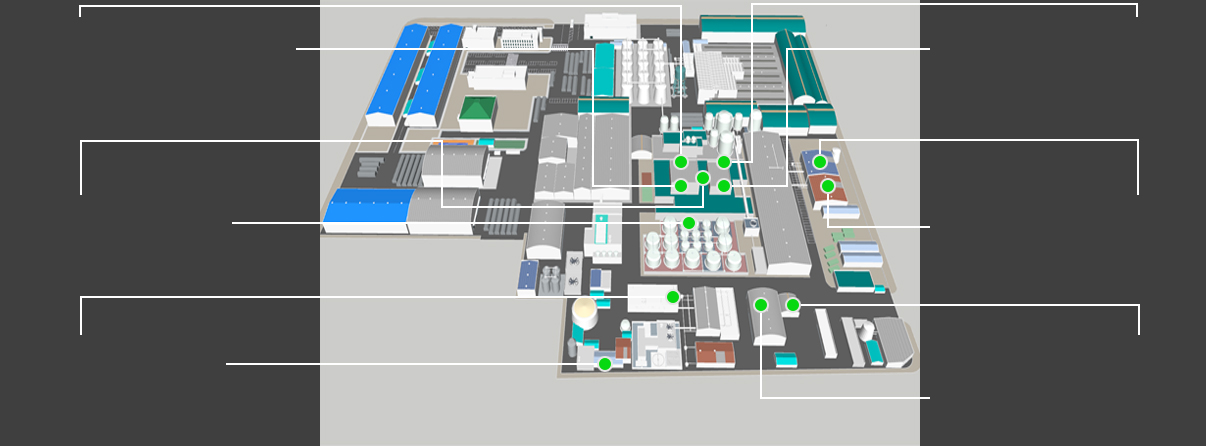
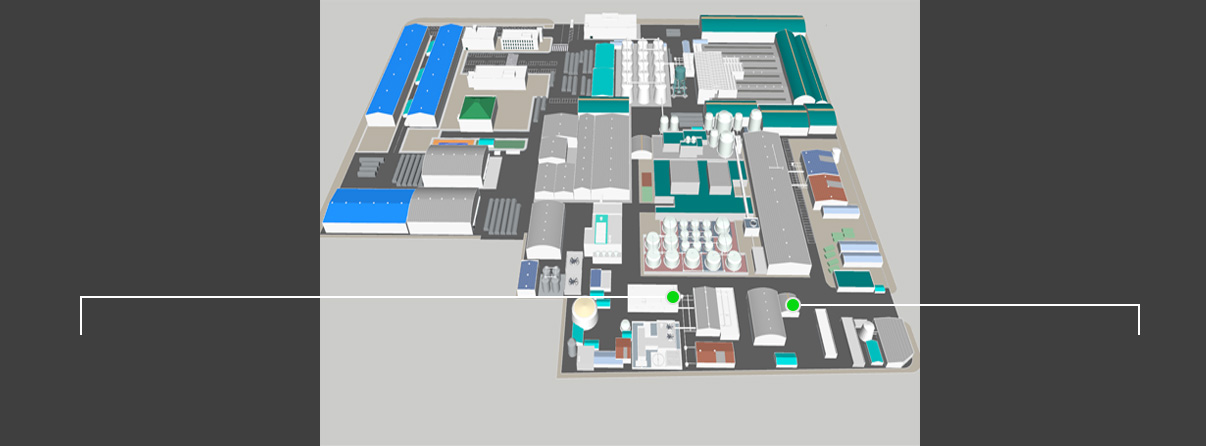
view map부분 수정

diff --git a/src/views/main/view.vue b/src/views/main/view.vue
@@ -274,8 +274,16 @@ export default {
                     if (e.box_code < 10) {
                         e.box_code = "0"+String(e.box_code)
                     }
-                    e.style = 'top:'+e.box_py+'px;left:'+e.box_px+'px'
+                    
+                    if(e.used_yn == "N"){
+                        e.style = 'top:'+e.box_py+'px; left:'+e.box_px+'px;' + 'display:none;'
+                    }
+                    else{
+                        e.style = 'top:'+e.box_py+'px; left:'+e.box_px+'px;'
+                    }
+                
                     e.check = true;
+                    // console.log(e)
                 })
                 this.boxList = res.data.data
                 // console.log(this.boxList)
@@ -427,7 +435,7 @@ export default {
                             graphDataIn.push(item.inlet_avg_value)                            
                         }
                         this.testUnit.push(item.unit)
-                        console.log(this.testUnit)
+                        // console.log(this.testUnit)
                     }
                 })
                 if (midlet_place === true) {
@@ -541,9 +549,9 @@ export default {
             if (item === "All") {
                 this.eqbkey = null;
                 this.boxList2 = this.boxList
-                console.log(this.boxList2, this.boxList)
+                // console.log(this.boxList2, this.boxList)
                 this.boxList2.map(e => {
-                    filterKeywords.push(e.equipment_inner_nm)
+                    filterKeywords.push(e.equipment_inner_nm)  
                 })
                 this.sensorData.map(e => {
                     filterKeywords2.push(e.equipment_inner_nm)
@@ -551,7 +559,7 @@ export default {
                 var filterKeywords3 = filterKeywords.filter((e) => !Array.from(new Set(filterKeywords2)).includes(e));
                 // console.log(this.boxList2,filterKeywords3)
 
-                filterKeywords3.map(e=>{
+                filterKeywords3.map(e=>{  
                     this.allKeywords.push(e)
                 })
                 let filterHeight = filterKeywords3.filter(x => x.length > 15)
@@ -562,11 +570,11 @@ export default {
                 filterKeywords3.map(item => {
                    this.boxList2 = this.boxList2.filter(e => e.equipment_inner_nm !== item)
                 })
-                console.log(this.boxList2)
+                // console.log(this.boxList2)
                 
             }else{
                 this.eqbkey = item.equipment_inner_nm
-                this.boxList.map(e => {                    
+                this.boxList.map(e => {                
                     if (e.equipment_inner_nm === item.equipment_inner_nm) {
                         this.boxList2.push(e)
                         
@@ -639,6 +647,7 @@ export default {
                     if (res.status === 200) {
                         if (res.data.statusCode === 200) {
                             res.data.data.map(e => {
+                                // console.log(e)
                                 e.check = true
                             })
 

diff --git a/src/components/header.vue b/src/components/header.vue
@@ -17,7 +17,7 @@
                         </span>
                         <ul class="main_nav main_nav01">
                             <li>
-                                <router-link :to="{ name: 'ㅣㅐ'}">전체</router-link>
+                                <router-link :to="{ name: 'Main'}">전체</router-link>
                             </li>
                             <li>
                                 <router-link :to="{ name: 'Main', }">
